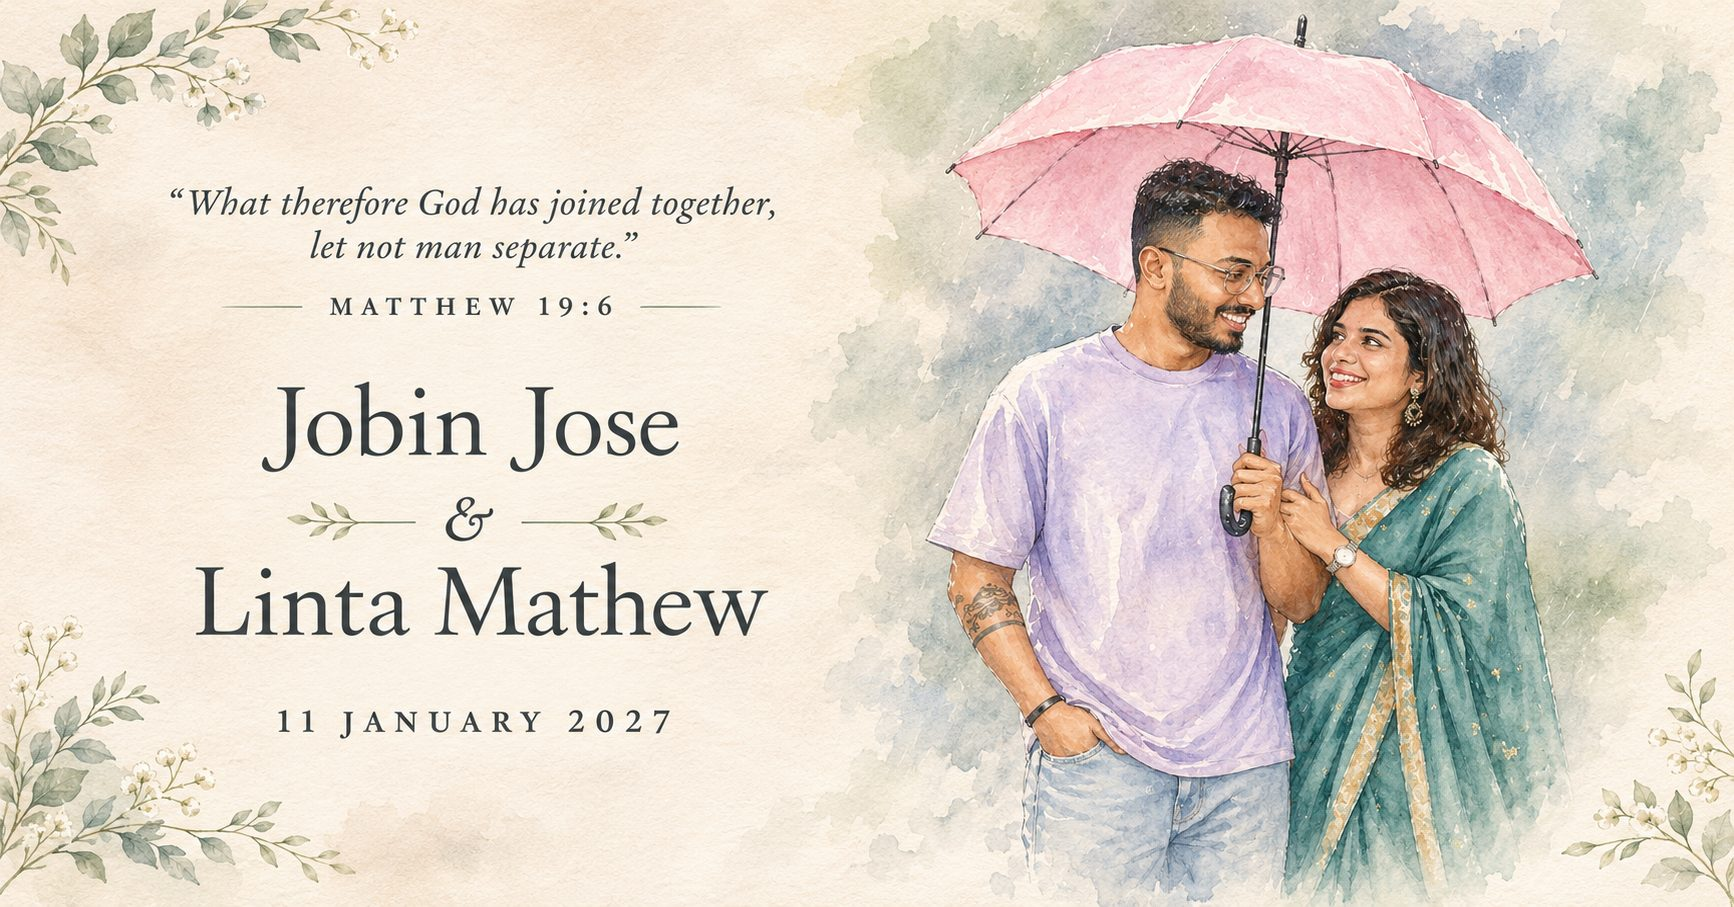
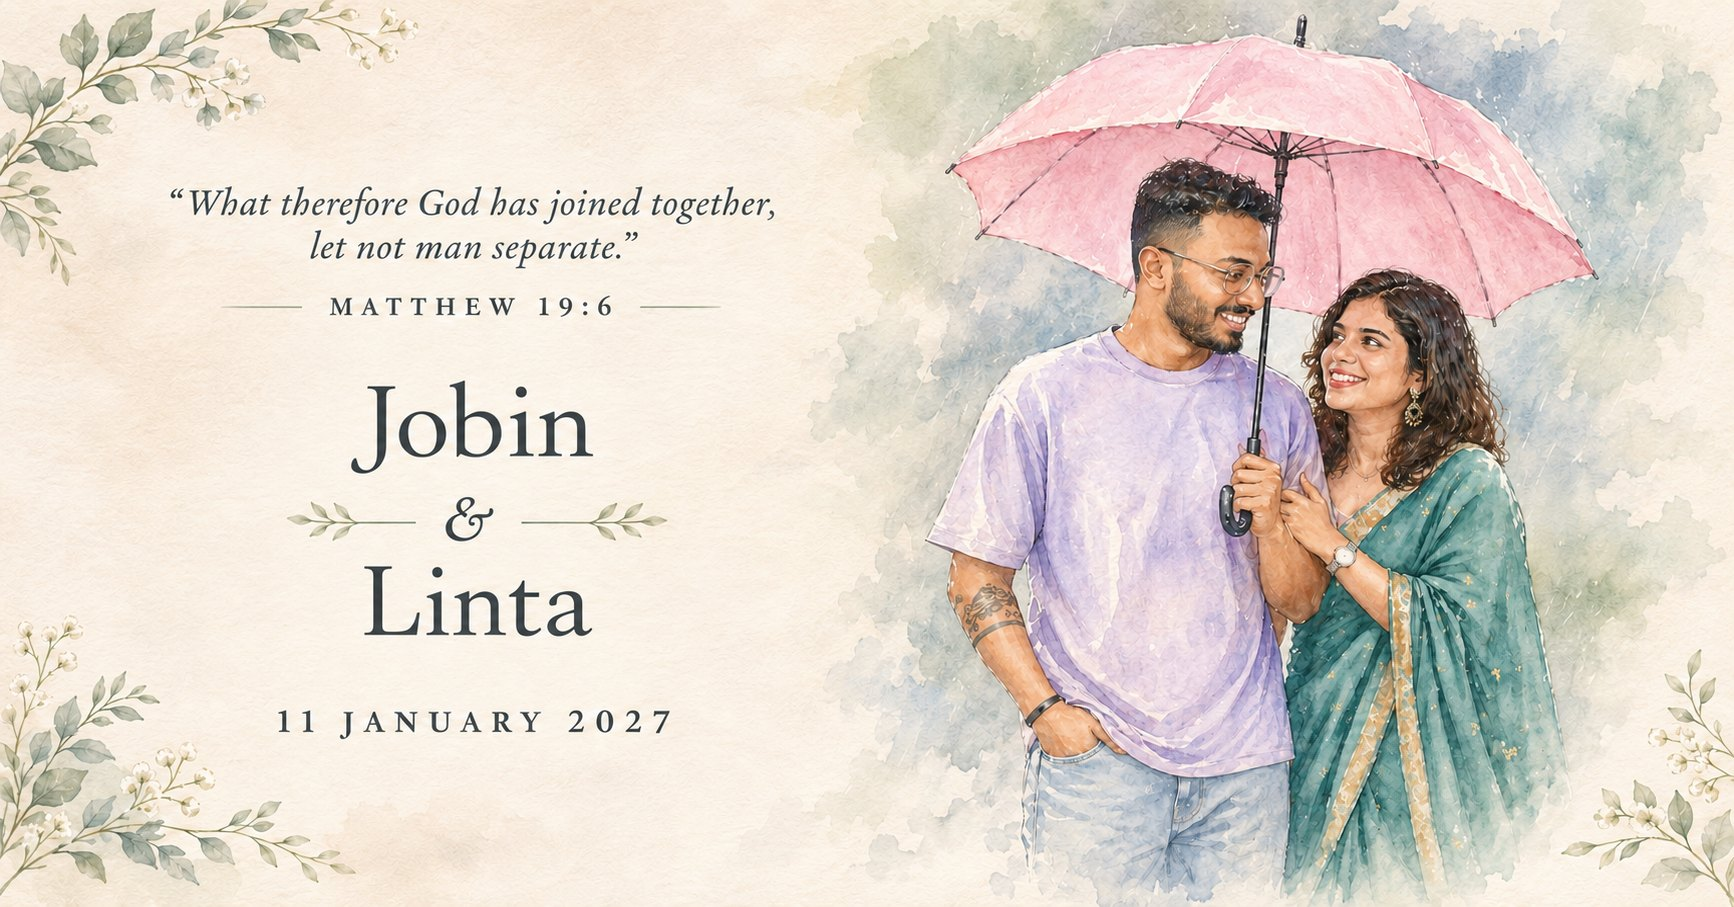
Update website: change names order to Jobin, Linta; fix OG image; add gallery section; update reception time format

diff --git a/index.html b/index.html
@@ -3,25 +3,25 @@
 <head>
 <meta charset="UTF-8">
 <meta name="viewport" content="width=device-width, initial-scale=1.0, viewport-fit=cover">
-<title>Linta &amp; Jobin — 11 January 2027</title>
-<meta name="description" content="Together with their families, Linta Mathew and Jobin Jose invite you to their wedding on 11 January 2027.">
+<title>Jobin, Linta — 11 January 2027</title>
+<meta name="description" content="Together with their families, Jobin Jose and Linta Mathew invite you to their wedding on 11 January 2027.">
 <link rel="canonical" href="https://linta-jobin.vercel.app/">
 <meta property="og:type" content="website">
-<meta property="og:site_name" content="Linta &amp; Jobin Wedding">
-<meta property="og:title" content="Linta &amp; Jobin — 11 January 2027">
-<meta property="og:description" content="Together with their families, Linta Mathew and Jobin Jose invite you to their wedding on 11 January 2027.">
+<meta property="og:site_name" content="Jobin, Linta Wedding">
+<meta property="og:title" content="Jobin, Linta — 11 January 2027">
+<meta property="og:description" content="Together with their families, Jobin Jose and Linta Mathew invite you to their wedding on 11 January 2027.">
 <meta property="og:url" content="https://linta-jobin.vercel.app/">
 <meta property="og:image" content="https://linta-jobin.vercel.app/assets/og.jpg">
 <meta property="og:image:secure_url" content="https://linta-jobin.vercel.app/assets/og.jpg">
 <meta property="og:image:type" content="image/jpeg">
 <meta property="og:image:width" content="1200">
 <meta property="og:image:height" content="630">
-<meta property="og:image:alt" content="Linta &amp; Jobin Wedding Invitation - 11 January 2027">
+<meta property="og:image:alt" content="Jobin, Linta Wedding Invitation - 11 January 2027">
 <meta name="twitter:card" content="summary_large_image">
-<meta name="twitter:title" content="Linta &amp; Jobin — 11 January 2027">
-<meta name="twitter:description" content="Together with their families, Linta Mathew and Jobin Jose invite you to their wedding on 11 January 2027.">
+<meta name="twitter:title" content="Jobin, Linta — 11 January 2027">
+<meta name="twitter:description" content="Together with their families, Jobin Jose and Linta Mathew invite you to their wedding on 11 January 2027.">
 <meta name="twitter:image" content="https://linta-jobin.vercel.app/assets/og.jpg">
-<meta name="twitter:image:alt" content="Linta &amp; Jobin Wedding Invitation - 11 January 2027">
+<meta name="twitter:image:alt" content="Jobin, Linta Wedding Invitation - 11 January 2027">
 <link rel="preconnect" href="https://fonts.googleapis.com">
 <link rel="preconnect" href="https://fonts.gstatic.com" crossorigin>
 <link href="https://fonts.googleapis.com/css2?family=Cormorant+Garamond:ital,wght@0,300;0,400;0,500;0,600;1,400;1,500&family=Jost:wght@300;400;500&display=swap" rel="stylesheet">
@@ -63,10 +63,10 @@
   <div class="gate-bg"><div class="lattice-bg"></div></div>
 
   <div class="gate-content">
-    <div class="monogram">L &amp; J</div>
+    <div class="monogram">J, L</div>
     <div class="divider"></div>
     <div class="eyebrow">The Wedding Of</div>
-    <div class="gate-names">Linta &amp; Jobin</div>
+    <div class="gate-names">Jobin, Linta</div>
     <div class="gate-sub">11 January 2027</div>
     <button class="enter-btn" id="enterBtn" type="button">Enter the Celebration</button>
   </div>
@@ -86,9 +86,9 @@
       <!-- <div class="hero-eyebrow">Together With Their Families</div> -->
       <div class="hero-verse">“What therefore God has joined together, let not man separate.”</div>
       <div class="hero-verse-ref">Matthew 19:6</div><br><br>
-      <div class="hero-name n1 serif">Linta Mathew</div>
+      <div class="hero-name n1 serif">Jobin</div>
       <div class="hero-amp">&amp;</div>
-      <div class="hero-name n2 serif">Jobin Jose</div>
+      <div class="hero-name n2 serif">Linta</div>
       <div class="hero-date">11 January 2027</div>
     </div>
     <div class="scroll-cue"><div class="line"></div></div>
@@ -101,7 +101,7 @@
     <div class="section-inner">
       <div class="eyebrow reveal">✝ Wedding Invitation ✝</div>
       <div class="couple-photo reveal reveal-d1">
-        <img src="assets/couple.jpeg" alt="Linta and Jobin">
+        <img src="assets/couple.jpeg" alt="Jobin and Linta">
         <div class="couple-photo-overlay">
           <div class="tap-icon">
             <svg width="24" height="24" viewBox="0 0 24 24" fill="none" stroke="currentColor" stroke-width="2">
@@ -118,13 +118,13 @@
       </p>
       <div class="names-row reveal reveal-d3">
         <div class="name-block">
-          <div class="role">The Bride</div>
-          <div class="name">Linta Mathew</div>
+          <div class="role">The Groom</div>
+          <div class="name">Jobin</div>
         </div>
         <div class="amp-mini">&amp;</div>
         <div class="name-block">
-          <div class="role">The Groom</div>
-          <div class="name">Jobin Jose</div>
+          <div class="role">The Bride</div>
+          <div class="name">Linta</div>
         </div>
       </div>
     </div>
@@ -199,31 +199,44 @@
     </div>
   </section>
 
+  <!-- GALLERY -->
+  <section id="gallery" class="section">
+    <svg class="corner-floral tl" viewBox="0 0 150 150"><use href="#sprig"/></svg>
+    <svg class="corner-floral br" viewBox="0 0 150 150"><use href="#sprig"/></svg>
+    <div class="section-inner" style="max-width:1000px;">
+      <div class="eyebrow reveal">A Glimpse Of Us</div>
+      <h2 class="reveal reveal-d1" style="text-align:center;font-size:2.8rem;margin:20px 0 50px;color:var(--ink);font-family:'Cormorant Garamond',serif;font-weight:400;font-style:italic;letter-spacing:0.01em;">A Love Story Begins</h2>
+      <div class="gallery-grid reveal reveal-d2">
+        <div class="gallery-item">
+          <img src="assets/j & l.jpeg" alt="Jobin and Linta" loading="lazy">
+        </div>
+      </div>
+    </div>
+  </section>
+
   <!-- FAMILY -->
   <section id="family" class="section">
     <div class="section-inner" style="max-width:900px;">
       <div class="eyebrow reveal">With The Blessings Of</div>
       <div class="family-grid" style="margin-top:50px;">
         <div class="family-col reveal reveal-d1">
-          <div class="rel">The Bride</div>
-          <div class="who serif">Linta Mathew</div>
-          <div class="of">Daughter Of</div>
-          <div class="parents">Mathew Varghese (Shajan) &amp; Laicy Varghese</div>
-          <div class="addr">Chennath House, Chingoli,<br>Karthikapally, Alappuzha</div>
-        </div>
-        <div class="family-divider reveal reveal-d2"></div>
-        <div class="family-col reveal reveal-d3">
           <div class="rel">The Groom</div>
-          <div class="who serif">Jobin Jose</div>
+          <div class="who serif">Jobin</div>
           <div class="of">Son Of</div>
           <div class="parents">Jose George &amp; Sheeja Jose</div>
           <div class="addr">Thyparambil House, Vettuveni,<br>Haripad, Alappuzha</div>
         </div>
+        <div class="family-divider reveal reveal-d2"></div>
+        <div class="family-col reveal reveal-d3">
+          <div class="rel">The Bride</div>
+          <div class="who serif">Linta</div>
+          <div class="of">Daughter Of</div>
+          <div class="parents">Mathew Varghese (Shajan) &amp; Laicy Varghese</div>
+          <div class="addr">Chennath House, Chingoli,<br>Karthikapally, Alappuzha</div>
+        </div>
       </div>
     </div>
   </section>
-
-  <!-- GALLERY (disabled — "A Glimpse Of The Day" section removed per request) -->
 
   <!-- CLOSING -->
   <section id="closing">
@@ -233,16 +246,16 @@
     <div class="bg-overlay"></div>
     <div class="section" style="padding-bottom:0;">
       <div class="content reveal">
-        <div class="monogram">L &amp; J</div>
+        <div class="monogram">J, L</div>
         <div class="divider"></div>
         <p class="thanks">We cordially invite you to join us on this blessed occasion and request your prayers and blessings for the couple as they begin their beautiful journey together.</p>
         <div class="sign">With Best Compliments</div>
-        <div class="final-date" style="letter-spacing:.2em;">Alex / Josly</div>
+        <div class="final-date" style="letter-spacing:.2em;">Alex / Joshly</div>
       </div>
     </div>
   </section>
 
-  <footer class="site-footer">Linta &amp; Jobin — 11 January 2027</footer>
+  <footer class="site-footer">Jobin, Linta — 11 January 2027</footer>
 </div>
 
 <!-- WEDDING SONG -->

diff --git a/style.css b/style.css
@@ -350,20 +350,33 @@ img{max-width:100%; display:block;}
 @media(max-width:759px){ .family-divider{ width:60px; height:1px; background:linear-gradient(90deg,transparent,var(--gold),transparent); } }
 
 /* ============ GALLERY ============ */
-#gallery{ background:var(--white); padding-left:0; padding-right:0; }
+#gallery{ background:var(--white); padding:60px 20px; }
 #gallery .section-inner{ max-width:1000px; text-align:center; }
 .gallery-grid{
-  display:grid; grid-template-columns:1fr; gap:14px; margin-top:44px;
+  display:grid; grid-template-columns:1fr; gap:24px; margin-top:44px; justify-items:center;
 }
-@media(min-width:700px){
-  .gallery-grid{ grid-template-columns:1.3fr 1fr; grid-template-rows:auto auto; }
-  .gallery-grid .g1{ grid-row:1 / span 2; }
+.gallery-item{ 
+  width:100%; 
+  max-width:800px;
+  overflow:hidden; 
+  border-radius:12px; 
+  position:relative; 
+  box-shadow:var(--shadow-soft);
+  transition: transform 0.4s var(--ease);
 }
-.gallery-grid figure{ overflow:hidden; border-radius:4px; position:relative; }
-.gallery-grid img{ width:100%; height:100%; object-fit:cover; transform:scale(1.02); transition:transform 1.4s var(--ease); }
-.gallery-grid figure:hover img{ transform:scale(1.08); }
-.g1{ aspect-ratio:4/5; }
-.g2{ aspect-ratio:16/9; }
+.gallery-item:hover {
+  transform: translateY(-8px);
+}
+.gallery-item img{ 
+  width:100%; 
+  height:auto; 
+  display:block;
+  object-fit:cover; 
+  transition:transform 1.2s var(--ease); 
+}
+.gallery-item:hover img{ 
+  transform:scale(1.05); 
+}
 .g3{ aspect-ratio:16/9; }
 
 /* ============ CLOSING ============ */
